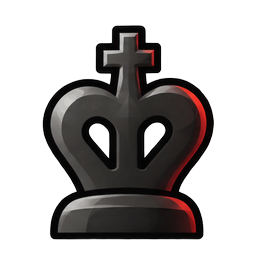
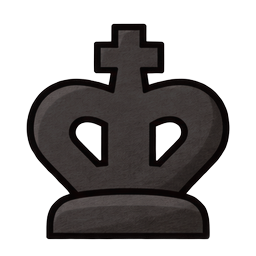
New board + final Classic pieces; Classic is the default set
- Board: the old marble/slate stone texture is gone. Every square is now
  one finished glass tile (public/design/board/tile-light|dark.jpg,
  originals in design-src/board), stretched to the square
- Classic pieces replaced with the approved flat illustrated set
  (originals in design-src/pieces-classic)
- Board tiles and Classic pieces carry the canvas look baked in:
  fade 30 + temperature −22 (scripts/bake-board.py mirrors the
  "Pieces — Classic" preview filters)
- CLASSIC_FIT = the tuned sizes/offsets from the canvas Tweaks
- Classic is the default and first in Settings → Pieces; legacy/unknown
  set names fall back to Classic, an explicit Ember choice stays Ember
- Removed marble.jpg (board-only); slate.jpg stays for UI surfaces

Claude-Session: https://claude.ai/code/session_01Tj9iZojaiCXnym8mhW2orZ

Changed region(s): [[0.0938, 0.0625, 0.9062, 0.9375]]

diff --git a/apps/frontend/src/lib/pieces.ts b/apps/frontend/src/lib/pieces.ts
@@ -10,13 +10,14 @@ const LICHESS_BASE = 'https://lichess1.org/assets/piece';
 export type PieceType = 'p' | 'n' | 'b' | 'r' | 'q' | 'k';
 
 /** The app's own sets — the only ones offered in Settings. */
-export const APP_PIECE_SETS = ['ember', 'classic'] as const;
+export const APP_PIECE_SETS = ['classic', 'ember'] as const;
 export type AppPieceSet = typeof APP_PIECE_SETS[number];
 
-/** Older accounts may still carry a Lichess set name from before the
- *  redesign — anything that isn't one of ours renders as Ember. */
+/** Classic is the default. Older accounts may still carry a Lichess set
+ *  name from before the redesign (DB default 'maestro') — anything that
+ *  isn't one of ours renders as Classic; an explicit 'ember' stays Ember. */
 export function normalizePieceSet(set: string | null | undefined): AppPieceSet {
-  return (APP_PIECE_SETS as readonly string[]).includes(set ?? '') ? (set as AppPieceSet) : 'ember';
+  return (APP_PIECE_SETS as readonly string[]).includes(set ?? '') ? (set as AppPieceSet) : 'classic';
 }
 
 export function pieceUrl(set: string, color: 'w' | 'b', type: PieceType) {
@@ -41,19 +42,20 @@ export const EMBER_FIT: Record<PieceType, { scale: number; y: number }> = {
   k: { scale: 1.05, y: -1 },
 };
 
-/** Classic set: drawn at one shared scale already, just a touch larger. */
-export const CLASSIC_FIT: Record<PieceType, { scale: number; y: number }> = {
-  p: { scale: 1.04, y: -1 },
-  n: { scale: 1.04, y: -1 },
-  b: { scale: 1.04, y: -1 },
-  r: { scale: 1.04, y: -1 },
-  q: { scale: 1.04, y: -1 },
+/** Classic set fit, tuned on the design canvas ("Pieces — Classic" tweaks). */
+export const CLASSIC_FIT: Record<PieceType, { scale: number; y: number; x?: number }> = {
+  p: { scale: 1.10, y: -1 },
+  n: { scale: 1.05, y: -3, x: -1 },
+  b: { scale: 1.05, y: -1 },
+  r: { scale: 1.10, y: -2 },
+  q: { scale: 1.08, y: -1 },
   k: { scale: 1.04, y: -1 },
 };
 
 export function pieceTransform(set: string, type: PieceType): string | undefined {
   const fit = set === 'ember' ? EMBER_FIT : set === 'classic' ? CLASSIC_FIT : null;
   if (!fit) return undefined;
-  const f = fit[type];
+  const f = fit[type] as { scale: number; y: number; x?: number };
+  if (f.x) return `translate(${f.x}%, ${f.y}%) scale(${f.scale})`;
   return `translateY(${f.y}%) scale(${f.scale})`;
 }

diff --git a/apps/frontend/src/app/globals.css b/apps/frontend/src/app/globals.css
@@ -442,10 +442,11 @@ input[type="range"].ticks::-moz-range-thumb {
     url('/design/textures/slate.jpg?v=3');
   background-size: cover, 520px 520px;
 }
-/* Board squares. Each square shows its own piece of the texture via
-   background-position; marble is used on the board only. */
-.sq-marble { background-image: url('/design/textures/marble.jpg?v=3'); background-size: 200% 200%; }
-.sq-slate  { background-image: url('/design/textures/slate.jpg?v=3');  background-size: 200% 200%; }
+/* Board squares: one finished glass tile per square (top band, soft rim),
+   stretched to the square. Fade (30) and temperature (−22) from the design
+   canvas are baked in — see scripts/bake-board.py. */
+.sq-marble { background-image: url('/design/board/tile-light.jpg?v=1'); background-size: 100% 100%; }
+.sq-slate  { background-image: url('/design/board/tile-dark.jpg?v=1');  background-size: 100% 100%; }
 
 /* Primary / secondary buttons: 9-slice stone plates.
    Border widths scale with height — see <PlateButton/>. */

diff --git a/apps/frontend/src/components/board/Chessboard.tsx b/apps/frontend/src/components/board/Chessboard.tsx
@@ -33,7 +33,6 @@ type Props = {
 };
 
 const FILES = ['a', 'b', 'c', 'd', 'e', 'f', 'g', 'h'] as const;
-const TEXTURE_POS = ['0% 0%', '100% 0%', '0% 100%', '100% 100%', '50% 50%', '30% 70%', '70% 30%'];
 const HL = '47, 95, 158'; // board highlight blue (--eos-hl)
 
 function sqName(file: number, rank: number): Square {
@@ -284,8 +283,6 @@ export function Chessboard({
                   isDragging && 'dragging')}
                 style={{
                   backgroundColor: isLight ? colors.light : colors.dark,
-                  // each square shows its own patch of the stone texture
-                  backgroundPosition: TEXTURE_POS[(file * 3 + rank * 5) % TEXTURE_POS.length],
                   cursor,
                 }}
                 onPointerDown={(e) => {

diff --git a/apps/frontend/src/app/(app)/settings/page.tsx b/apps/frontend/src/app/(app)/settings/page.tsx
@@ -595,7 +595,7 @@ function PieceSetPicker({ value, onChange, t }: { value: AppPieceSet; onChange: 
                 <div
                   key={pc}
                   className="aspect-square"
-                  style={{ backgroundImage: `url(/design/textures/${i % 2 === 0 ? 'marble' : 'slate'}.jpg?v=3)`, backgroundSize: '200% 200%' }}
+                  style={{ backgroundImage: `url(/design/board/tile-${i % 2 === 0 ? 'light' : 'dark'}.jpg?v=1)`, backgroundSize: '100% 100%' }}
                 >
                   {/* eslint-disable-next-line @next/next/no-img-element */}
                   <img

diff --git a/apps/frontend/src/lib/store.ts b/apps/frontend/src/lib/store.ts
@@ -119,7 +119,7 @@ const DEFAULT_SETTINGS: UserSettings = {
   focusMode: false,
   accentColor: '#c72a2f',
   boardTheme: 'stone',
-  pieceSet: 'ember',
+  pieceSet: 'classic',
   soundEnabled: true,
   soundPack: 'wood',
   language: 'en',

diff --git a/apps/frontend/scripts/bake-board.py b/apps/frontend/scripts/bake-board.py
@@ -1,0 +1,23 @@
+import numpy as np
+from PIL import Image
+FK=0.30; TEMP=-22
+def _sat(s): return np.array([[0.213+0.787*s,0.715-0.715*s,0.072-0.072*s],[0.213-0.213*s,0.715+0.285*s,0.072-0.072*s],[0.213-0.213*s,0.715-0.715*s,0.072+0.928*s]])
+def _sep(a):
+    k=1-a; return np.array([[0.393+0.607*k,0.769-0.769*k,0.189-0.189*k],[0.349-0.349*k,0.686+0.314*k,0.168-0.168*k],[0.272-0.272*k,0.534-0.534*k,0.131+0.869*k]])
+def softlight(cb,cs):
+    D=np.where(cb<=0.25,((16*cb-12)*cb+4)*cb,np.sqrt(cb))
+    return np.where(cs<=0.5, cb-(1-2*cs)*cb*(1-cb), cb+(2*cs-1)*(D-cb))
+def bake(src,dst,fk=FK,temp=TEMP):
+    im=Image.open(src); alpha=im.mode in('RGBA','LA')
+    im=im.convert('RGBA' if alpha else 'RGB'); a=np.asarray(im).astype(float)/255; x=a[...,:3]
+    lift=np.array([38,34,40])/255; x=x+fk*(np.maximum(x,lift)-x)
+    tc=np.array([0xff,0x8a,0x3d] if temp>=0 else [0x3d,0x7b,0xff])/255; op=min(100,abs(temp))/100*0.6
+    x=x+op*(softlight(x,tc)-x)
+    x=np.clip((x-0.5)*(1-0.12*fk)+0.5,0,1); x=np.clip(x@_sat(1-0.22*fk).T,0,1); x=np.clip(x*(1+0.03*fk),0,1); x=np.clip(x@_sep(0.08*fk).T,0,1)
+    a[...,:3]=x; out=Image.fromarray((a*255).round().astype(np.uint8),'RGBA' if alpha else 'RGB')
+    out.save(dst,**({'quality':92} if dst.endswith('.jpg') else {'optimize':True}))
+if __name__=='__main__':
+    import sys
+    for nm in ['wK','wQ','wR','wB','wN','wP','bK','bQ','bR','bB','bN','bP']:
+        bake(f'stone4/orig/{nm}.png',f'final/pieces/{nm}.png')
+    bake('board2/tile_light.jpg','final/board/tile-light.jpg'); bake('board2/tile_dark.jpg','final/board/tile-dark.jpg')
